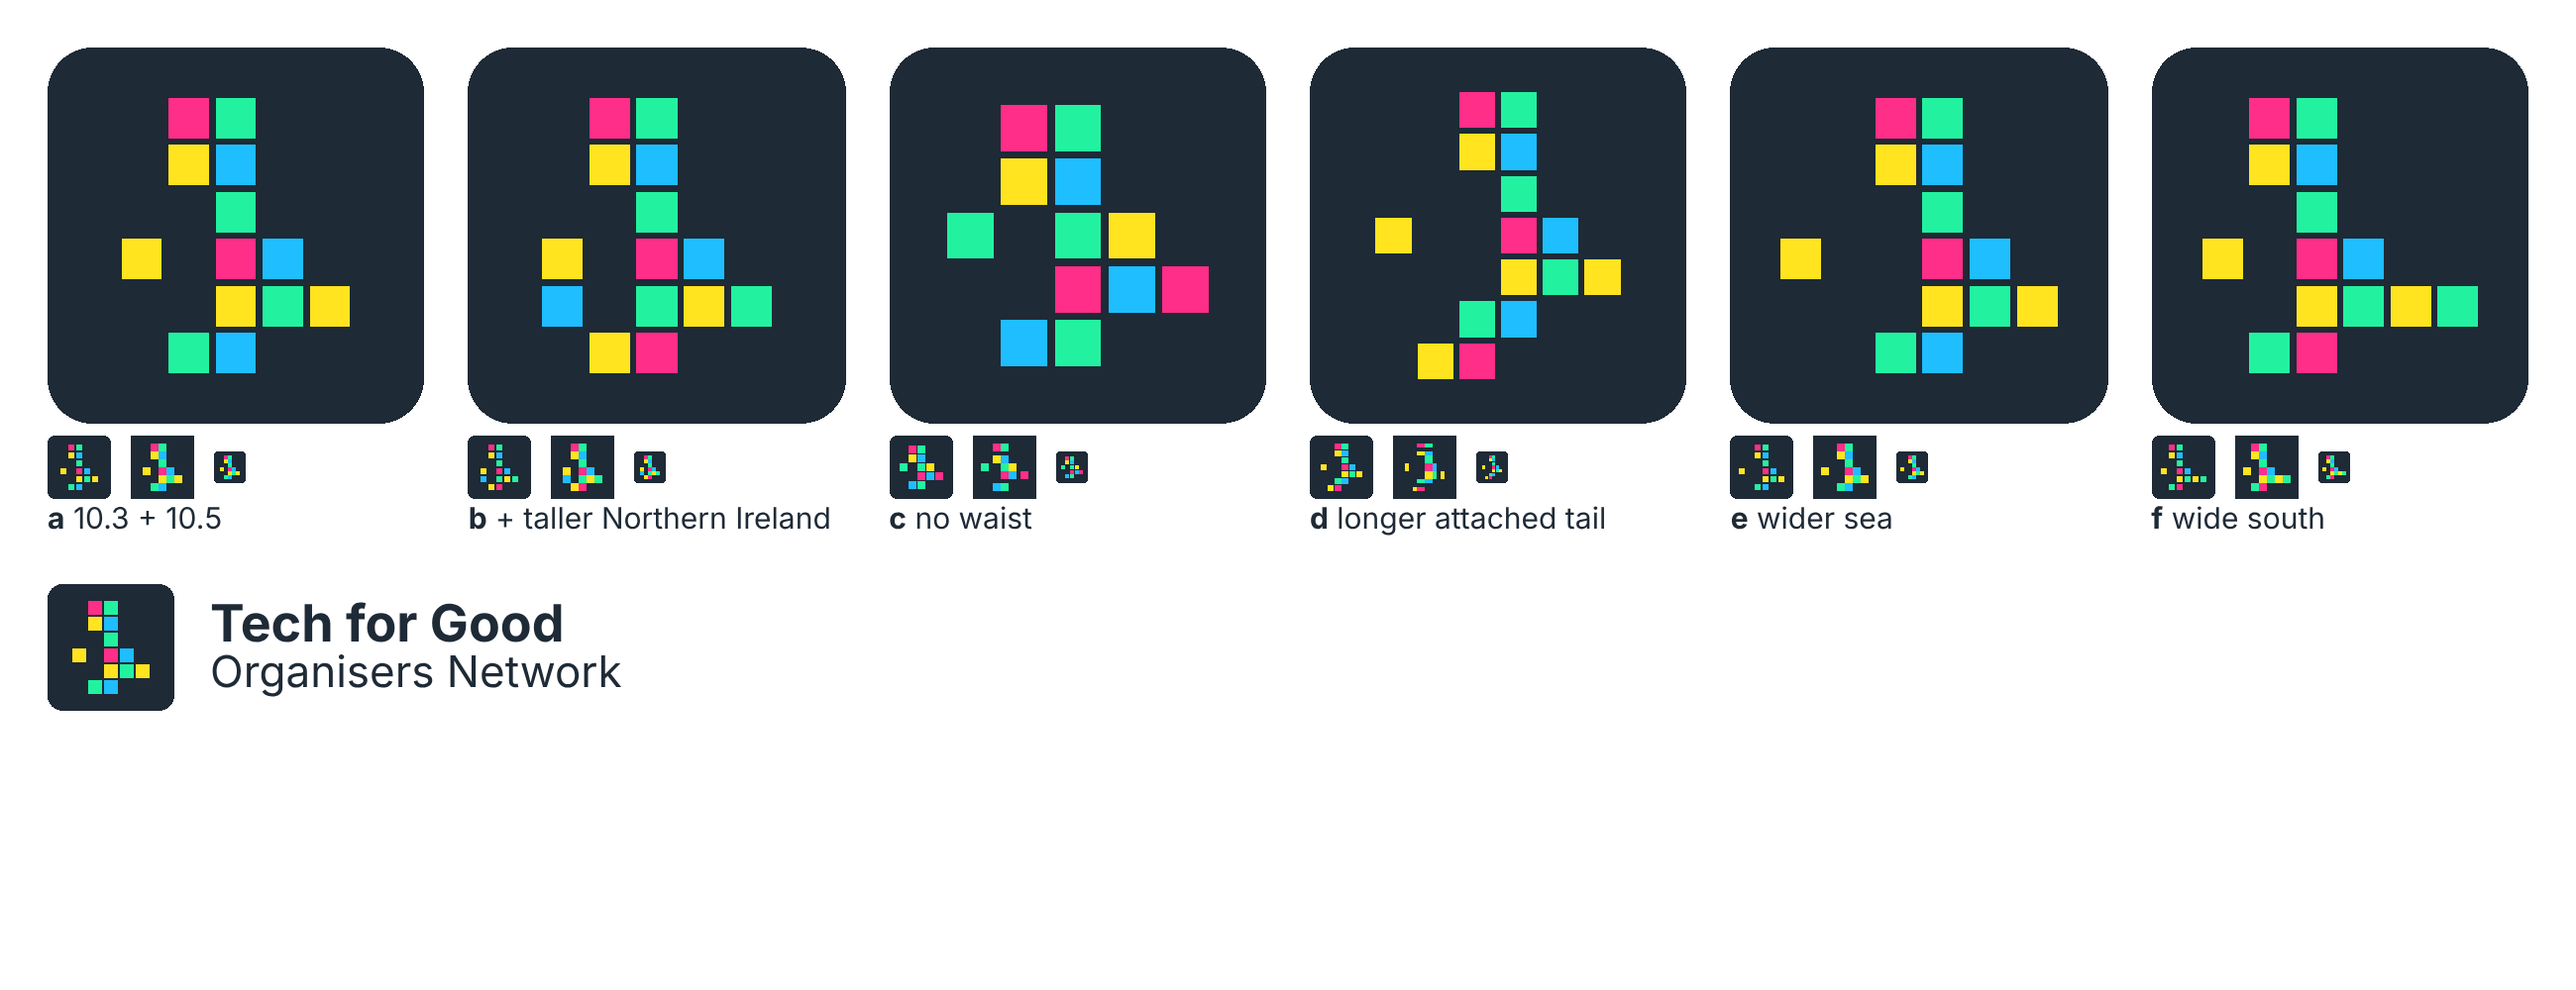
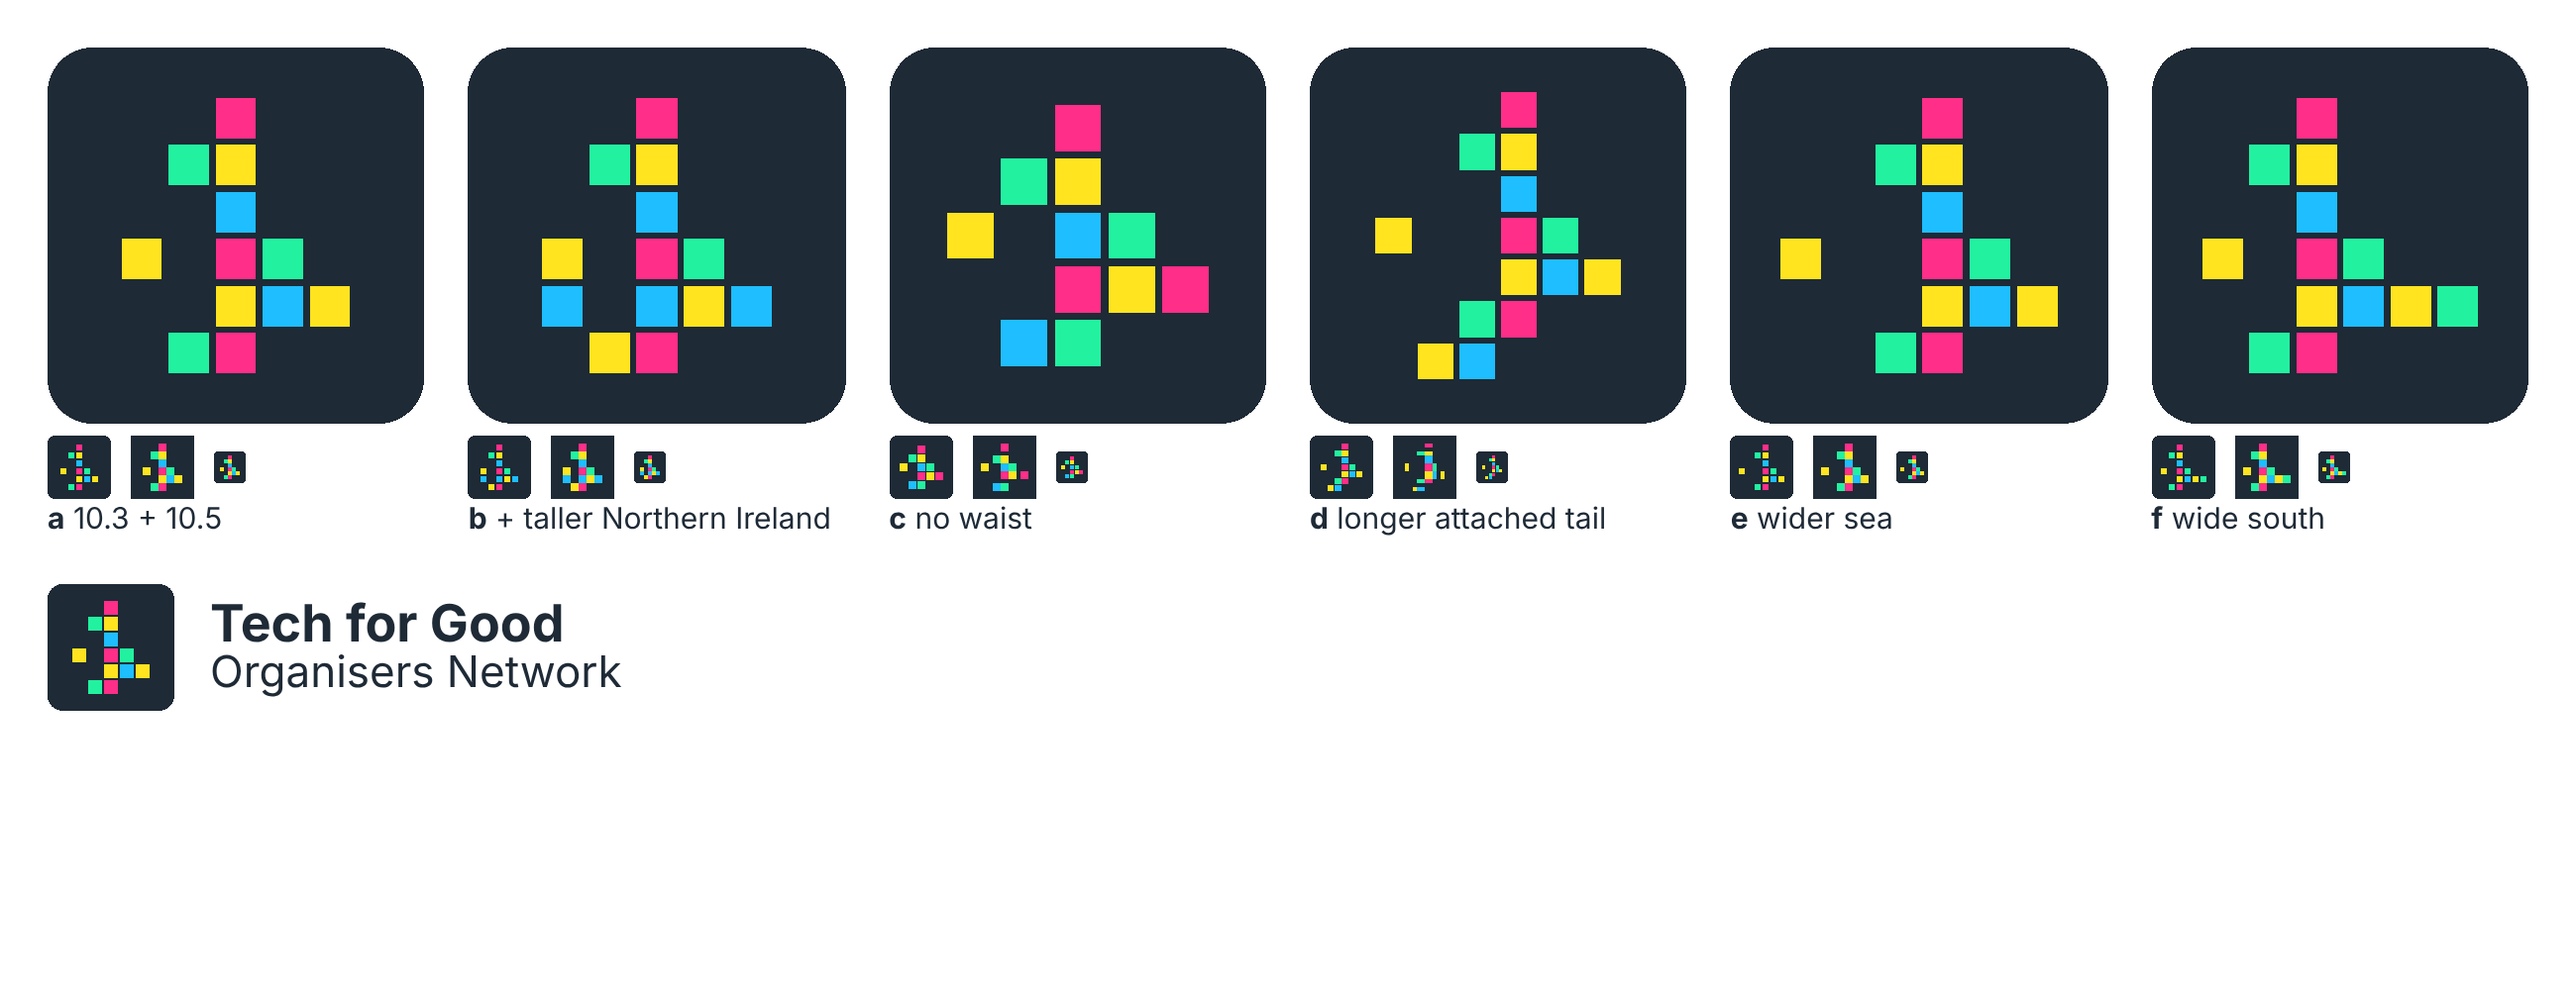
Design drafts: combinations without Scotland's top-left square (Ed, in session)
Claude-Session: https://claude.ai/code/session_018uvzSPoLJKUx3o3mPuMkSG

diff --git a/design/tools/combos.py b/design/tools/combos.py
@@ -1,5 +1,5 @@
 """Combinations of minimal 10.3 (attached tail) and 10.5 (Scotland 2x2), with small tweaks
-(Ed, 2026-11-28: ".3 and .5 are close").
+(Ed, 2026-11-28: ".3 and .5 are close"; then "take away the red block in the top left").
 
 Run: python3 design/tools/combos.py  -> writes design/marks/shapes/c-a.svg ... c-f.svg
 """
@@ -9,7 +9,7 @@ OUT = pathlib.Path(__file__).resolve().parent.parent / "marks" / "shapes"
 
 COMBOS = [
 ("a", "10.3 + 10.5", """
-.##..
+..#..
 .##..
 ..#..
 #.##.
@@ -17,7 +17,7 @@ COMBOS = [
 .##..
 """),
 ("b", "+ taller Northern Ireland", """
-.##..
+..#..
 .##..
 ..#..
 #.##.
@@ -25,14 +25,14 @@ COMBOS = [
 .##..
 """),
 ("c", "no waist", """
-.##..
+..#..
 .##..
 #.##.
 ..###
 .##..
 """),
 ("d", "longer attached tail", """
-..##..
+...#..
 ..##..
 ...#..
 #..##.
@@ -41,7 +41,7 @@ COMBOS = [
 .##...
 """),
 ("e", "wider sea", """
-..##..
+...#..
 ..##..
 ...#..
 #..##.
@@ -49,7 +49,7 @@ COMBOS = [
 ..##..
 """),
 ("f", "wide south", """
-.##...
+..#...
 .##...
 ..#...
 #.##..
